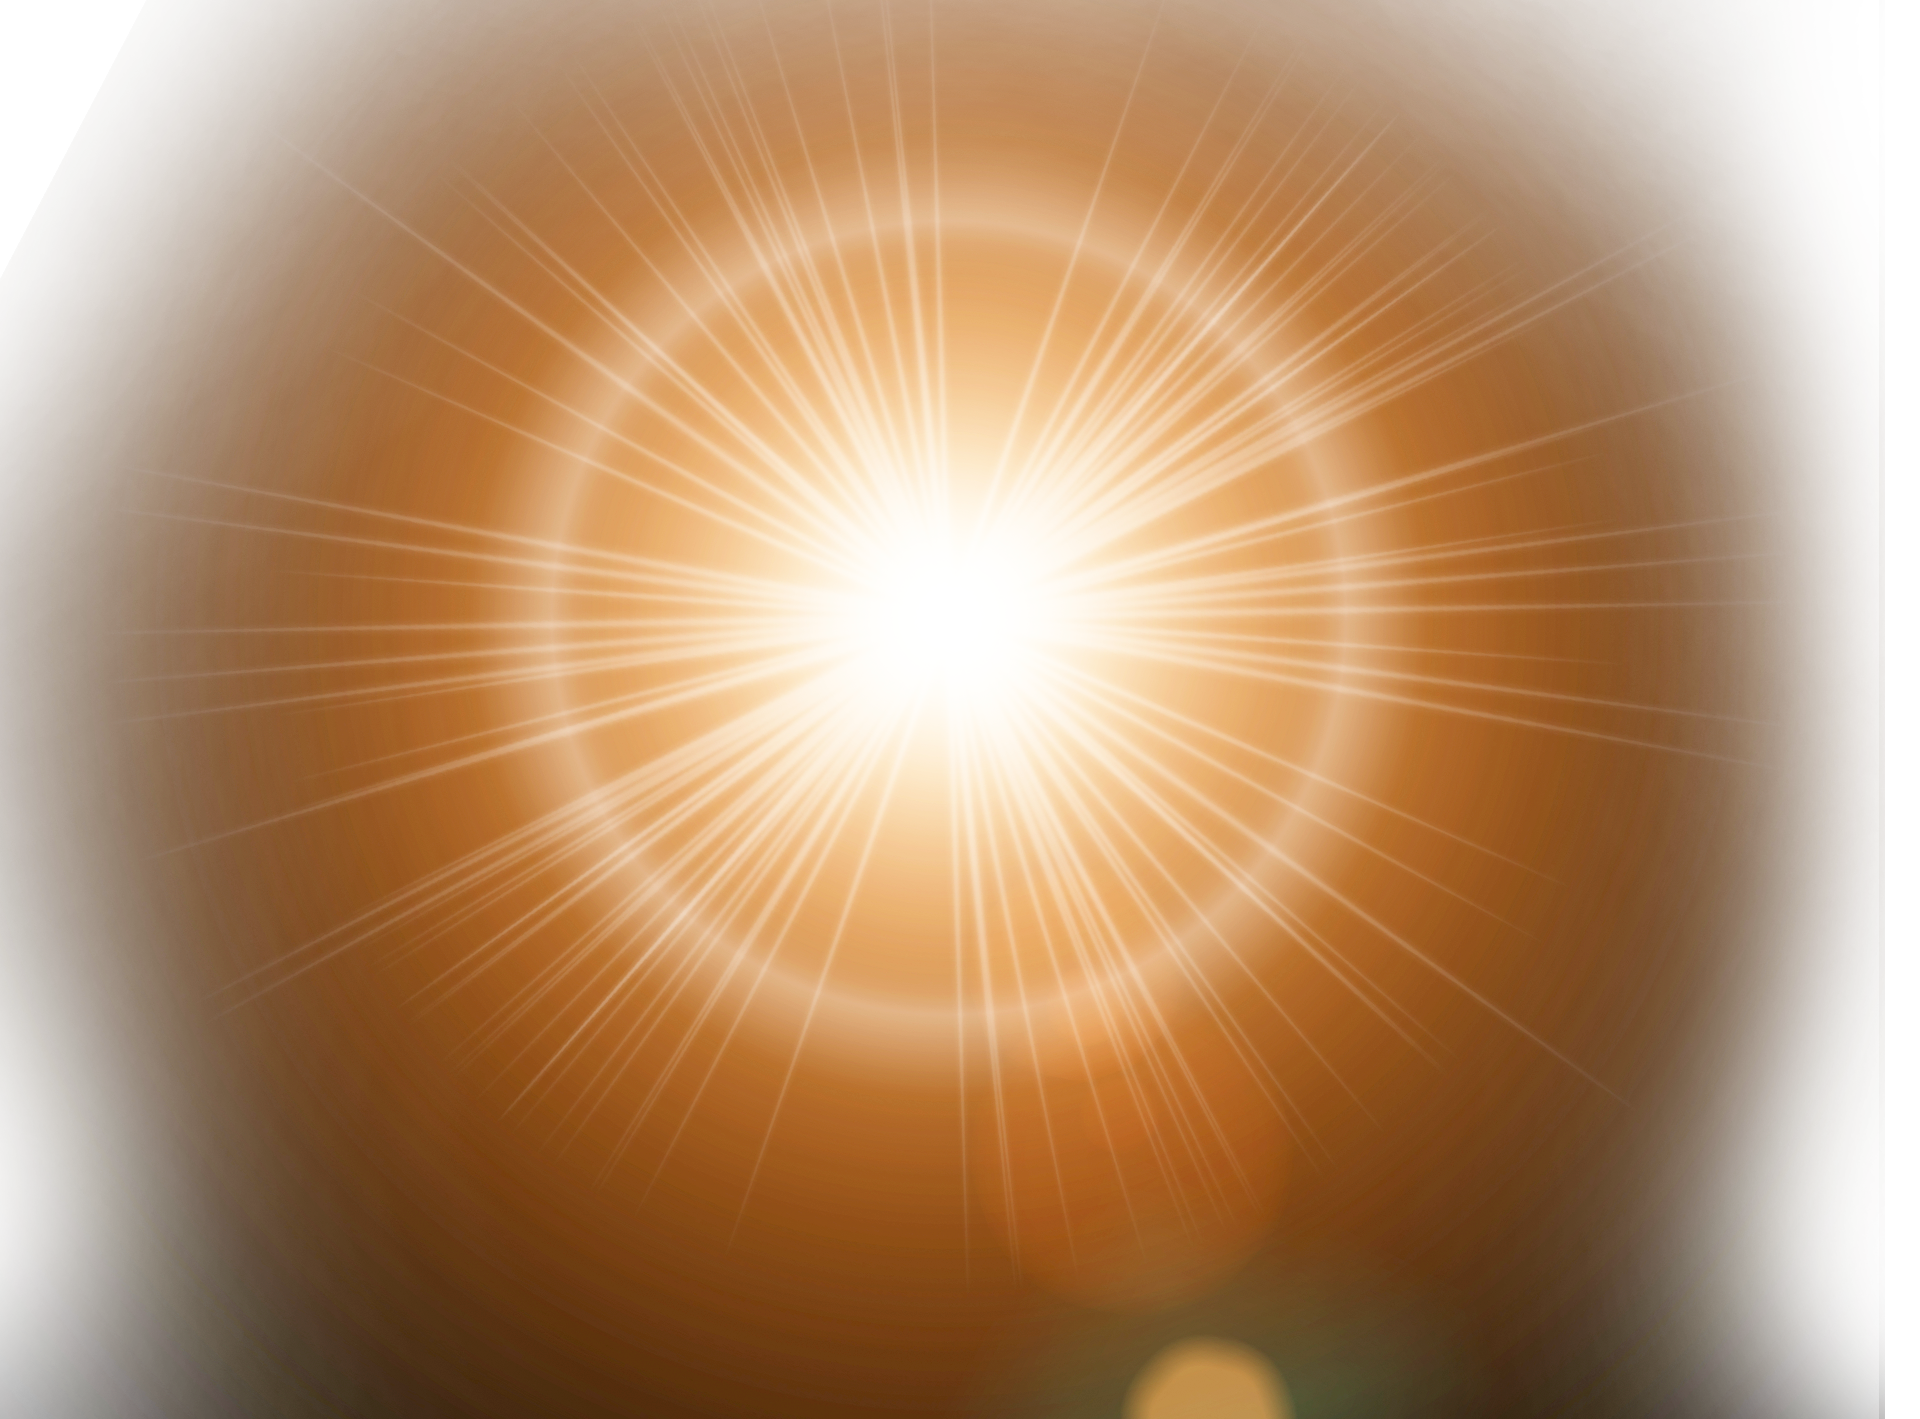
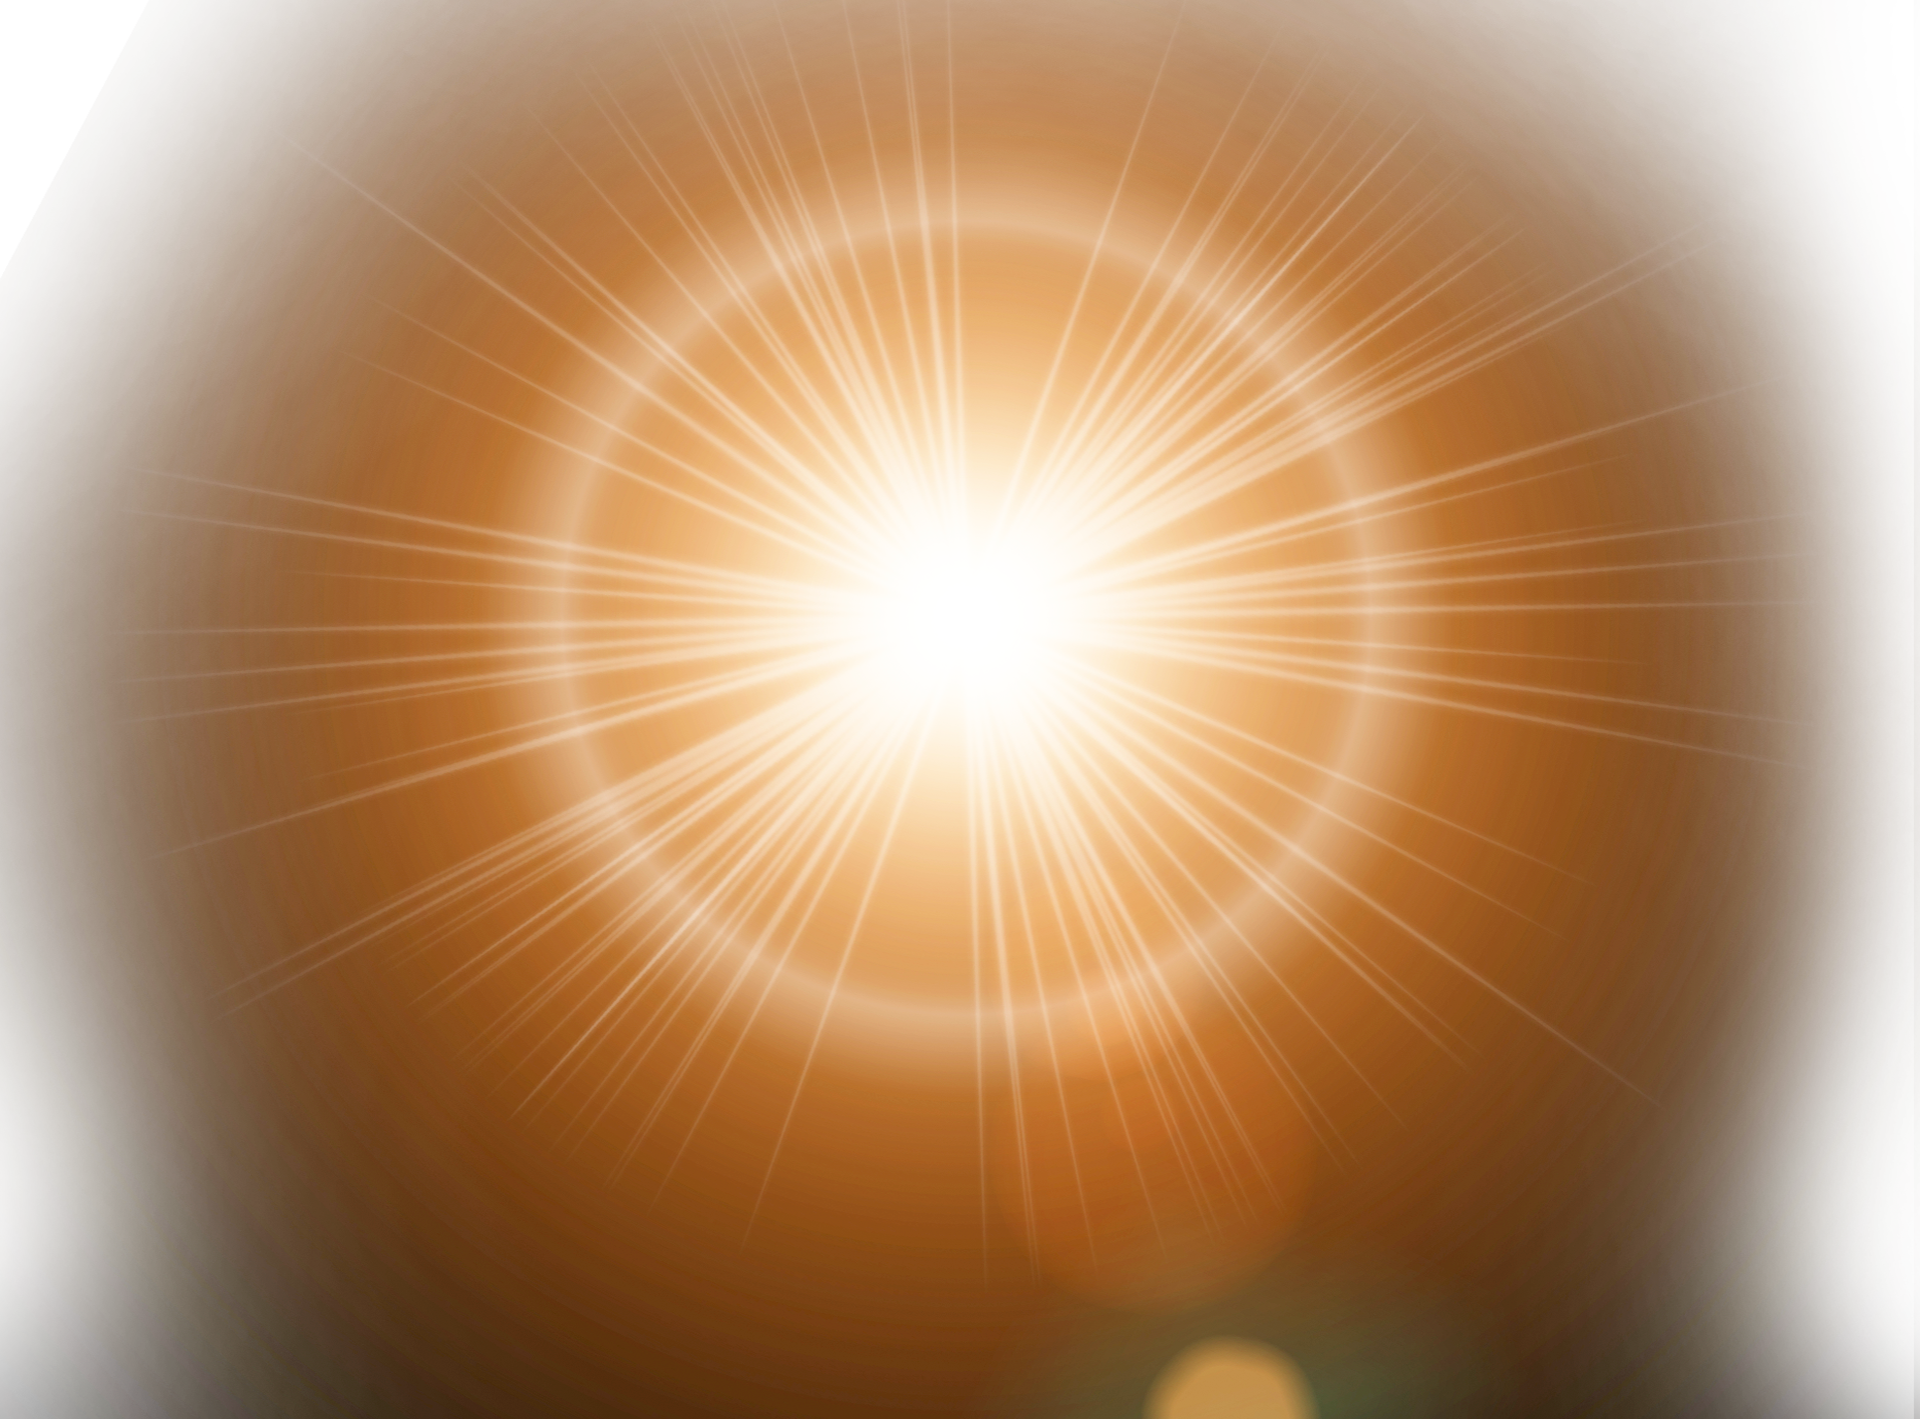
Winart Platform 1.0.8

diff --git a/src/Home/Home.css b/src/Home/Home.css
@@ -27,14 +27,14 @@
 }
 
 .wt-home-hoja1{
-    width: 400px;
+    height: 50vh;
     position: absolute;
     top: 40px;
     right: -150px;
 }
 
 .wt-home-hoja2{
-    width: 600px;
+    height: 30vh;
     position: absolute;
     top: 20px;
     right: -250px;
@@ -42,14 +42,14 @@
 }
 
 .wt-home-hoja1_2{
-    width: 400px;
+    height: 50vh;
     position: absolute;
     top: 40px;
     left: -150px;
 }
 
 .wt-home-hoja2_2{
-    width: 600px;
+    height: 30vh;
     position: absolute;
     top: 20px;
     left: -250px;
@@ -67,7 +67,7 @@
 .wt-home-logo{
     z-index: 10;
     position:relative;
-    width: 500px;
+    height: 30vh;
     filter: drop-shadow(3px 0px 3px #0000009c);
     opacity: 1;
 }
@@ -85,7 +85,7 @@
 
 .wt-home-bg{
     z-index: 5;
-    top: 20vh;
+
     height: 100vh;
     width: 100%;
     position: absolute;
@@ -93,18 +93,20 @@
     display: flex;
     align-items: center;
     justify-content: center;
+    overflow-x: hidden;
+    overflow-y: visible;
 }
 
 .wt-home-brillo{
-    width: 100%;
+    height: auto;
     position: absolute;
-    top: -40vh;
+    top: -12vh;
 }
 
 .wt-home-sol{
-    width: 500px;
+    height: 40vh;
     position: absolute;
-    top: -1vh;
+    top: 19vh;
     place-self: center;
 }
 
